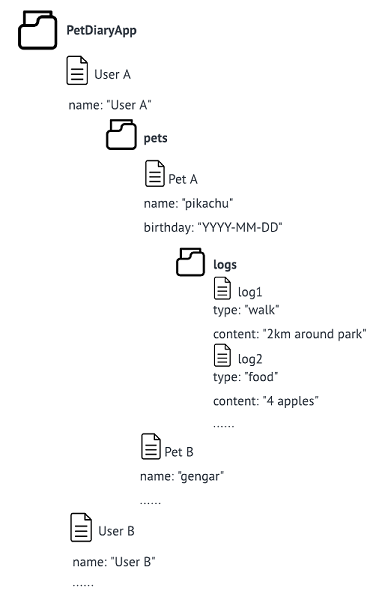
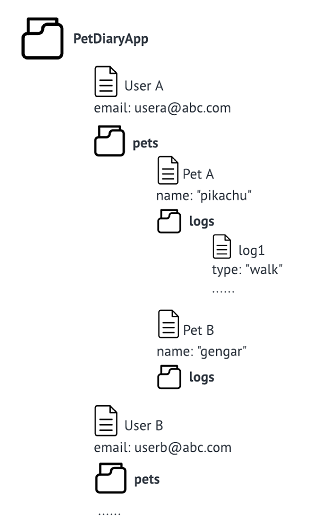
update README.md

Changed region(s): [[0.0312, 0.0, 0.9375, 0.966], [0.6562, 0.8151, 0.7188, 0.8755]]

diff --git a/README.md b/README.md
@@ -7,6 +7,8 @@ Group 2: Kay (Mengxian) Cai, Iris (Bijin) Zhang</p>
 
 Welcome to use Pet Diary! This is a user-friendly mobile app designed for adults who are passionate about their pets and want to keep track of their furry friends' daily lives. Users can log activities including food, treats, water, pee, poop, sleep, play, walks, tooth brushing, grooming, training, medication, vet, vaccination, vomit, nail cut, deworming, and custom. Users can also set notifications for events like food, medication, and vet reminders, enabling them to maintain their pets' well-being. The app also allows users to explore information about pet service providers and veterinarians based on location.
 
+Introduction video: https://www.youtube.com/watch?v=-3Ko4rG3P9U
+
 ## Table of Contents
 
 - [Getting Started](#getting-started)
@@ -16,10 +18,11 @@ Welcome to use Pet Diary! This is a user-friendly mobile app designed for adults
   - [Installation](#installation)
 - [Running the App](#running-the-app)
 - [Current State](#current-state)
-  - [Iteration 2 updates](#iteration-2-updates-as-of-dec-1-2023)
-  - [Iteration 1](#iteration-1-as-of-nov-19-2023)
+  - [Iteration 3](#iteration-3-dec-12-2023)
+  - [Iteration 2](#iteration-2-dec-1-2023)
+  - [Iteration 1](#iteration-1-nov-19-2023)
   - [Member Contribution](#member-contribution)
-  - [Next Iteration](#next-iteration)
+  - [Future Work](#future-work)
 - [User Guide (Youtube Video)](#user-guide-youtube-video)
 - [Database Structure](#database-structure)
 
@@ -88,7 +91,14 @@ npm expo start
 
 ## Current State
 
-### Iteration 2 updates (as of Dec 1, 2023)
+### Iteration 3 (Dec 12, 2023)
+
+- Extend camera use on AddLogScreen
+- Add map with markers in the SpotScreen and stylings
+- Authentication
+- Notification
+
+### Iteration 2 (Dec 1, 2023)
 
 - Camera use
   - User can take a photo or select a photo from album to set as the head icon/avatar for their pets in the app
@@ -101,7 +111,7 @@ npm expo start
 - Issues:
   - Currently in the first render of SpotScreen a type error will appear because userLocation is null and cannot read latitude or longtitute of null, we will fix this in the next iteration
 
-### Iteration 1 (as of Nov 19, 2023)
+### Iteration 1 (Nov 19, 2023)
 
 - Functionalities implemented:
 
@@ -120,21 +130,50 @@ npm expo start
 ### Member contribution
 
 - Kay:
-  implemented HomeScreen, LogScreen, AddPetScreen, ProfileScreen and related components, as well as navigation among these screens, read of log data, creation of pet data, improvements to AddLogScreen and EditLogScreen, database structuring, camera use, and version control;
-- Iris: implemented AddLogScreen, EditLogScreen, SpotScreen and related components, as well as CRUD of log data, external API use and location use.
+  implemented HomeScreen, LogScreen, AddPetScreen, ProfileScreen, NotificationScree, SpotScreen and related components, AuthContext, PetsContext, Map, as well as navigation among these screens, CRUD of log data, creation of pet data, refactoring of AddLogScreen and EditLogScreen, database connection, camera use, and version control;
+- Iris: implemented AddLogScreen, EditLogScreen, SpotScreen, SignupScreen, LoginScreen and related components, as well as CRUD of log data, external API use and location use.
 
-### Next Iteration
+### Future work
 
-The next iteration 3 will focus on:
+Future work will consider the following functionalities:
 
-- Extend camera use on AddLogScreen
-- Add map with markers in the SpotScreen and stylings
-- Authentication
-- Notification
+- user can search logs by certain date or period
+- pressing a service provider will navigate user to a specific screen of that provider with more details, and user can save it as favorite
+- user can add more photos when they edit the posted logs
+- implement analytics to provide users with insights into their pets' activities and health trends
 
 ## User Guide (Youtube video)
 
 Please see the video at https://www.youtube.com/watch?v=-3Ko4rG3P9U which guides you to use the app.
+
+The app's home screen displays pets in different tabs that users can swipe to view. All logs are shown in reverse chronological order. User can user the top search bar to searh for logs of a certain type.
+
+![Home screen](./PetDiaryApp/assets/screenshots/home.png)
+
+By pressing the big plus button in the bottom middle of home screen, user can add a log for their pets.
+
+![Add log screen](./PetDiaryApp/assets/screenshots/add.png)
+
+By pressing a specific log in the home screen, user can edit or delete a log.
+
+![Edit log screen](./PetDiaryApp/assets/screenshots/edit.png)
+
+By pressing the person icon on the top left of the home screen, user can go to Profile screen.
+
+![Profile screen](./PetDiaryApp/assets/screenshots/profile.png)
+
+By pressing the reminder icon on the top right of the home screen, user can set a local notification for future events.
+
+![Notification screen](./PetDiaryApp/assets/screenshots/notification.png)
+
+By pressing the place icon on the bottom right of the home screen, user can search nearby pet-related service providers based on their location.
+
+![Place screen](./PetDiaryApp/assets/screenshots/place.png)
+
+User can also view the search results in an interactive map, the below screenshots show how the map looks like in Android and iOS, respectively.
+
+![Map in android](./PetDiaryApp/assets/screenshots/map_android.png)
+![Map in ios](./PetDiaryApp/assets/screenshots/map_ios.png)
 
 ## Database Structure
 
@@ -143,6 +182,6 @@ The below diagram illustrates the hierarchical data model for this app (the fole
 ![database structure diagram](./PetDiaryApp/assets/database_structure.png)
 
 - the app use a collection called "PetDiaryApp", within this collection are the user documents;
-- each user document has certain fields like user name and a "pets" subcollection, within the "pets" subcollection are the pet documents;
+- each user document has certain fields like email and a "pets" subcollection, within the "pets" subcollection are the pet documents;
 - each pet document has certain fields like pet name, birthday, etc. and a "logs" subcollection, within the "logs" subcollections are the log documents;
-- each log document has certain fields about the details of such logged activity as shown by the example above.
+- each log document has certain fields about the details of such logged activity type as shown by the example above.
